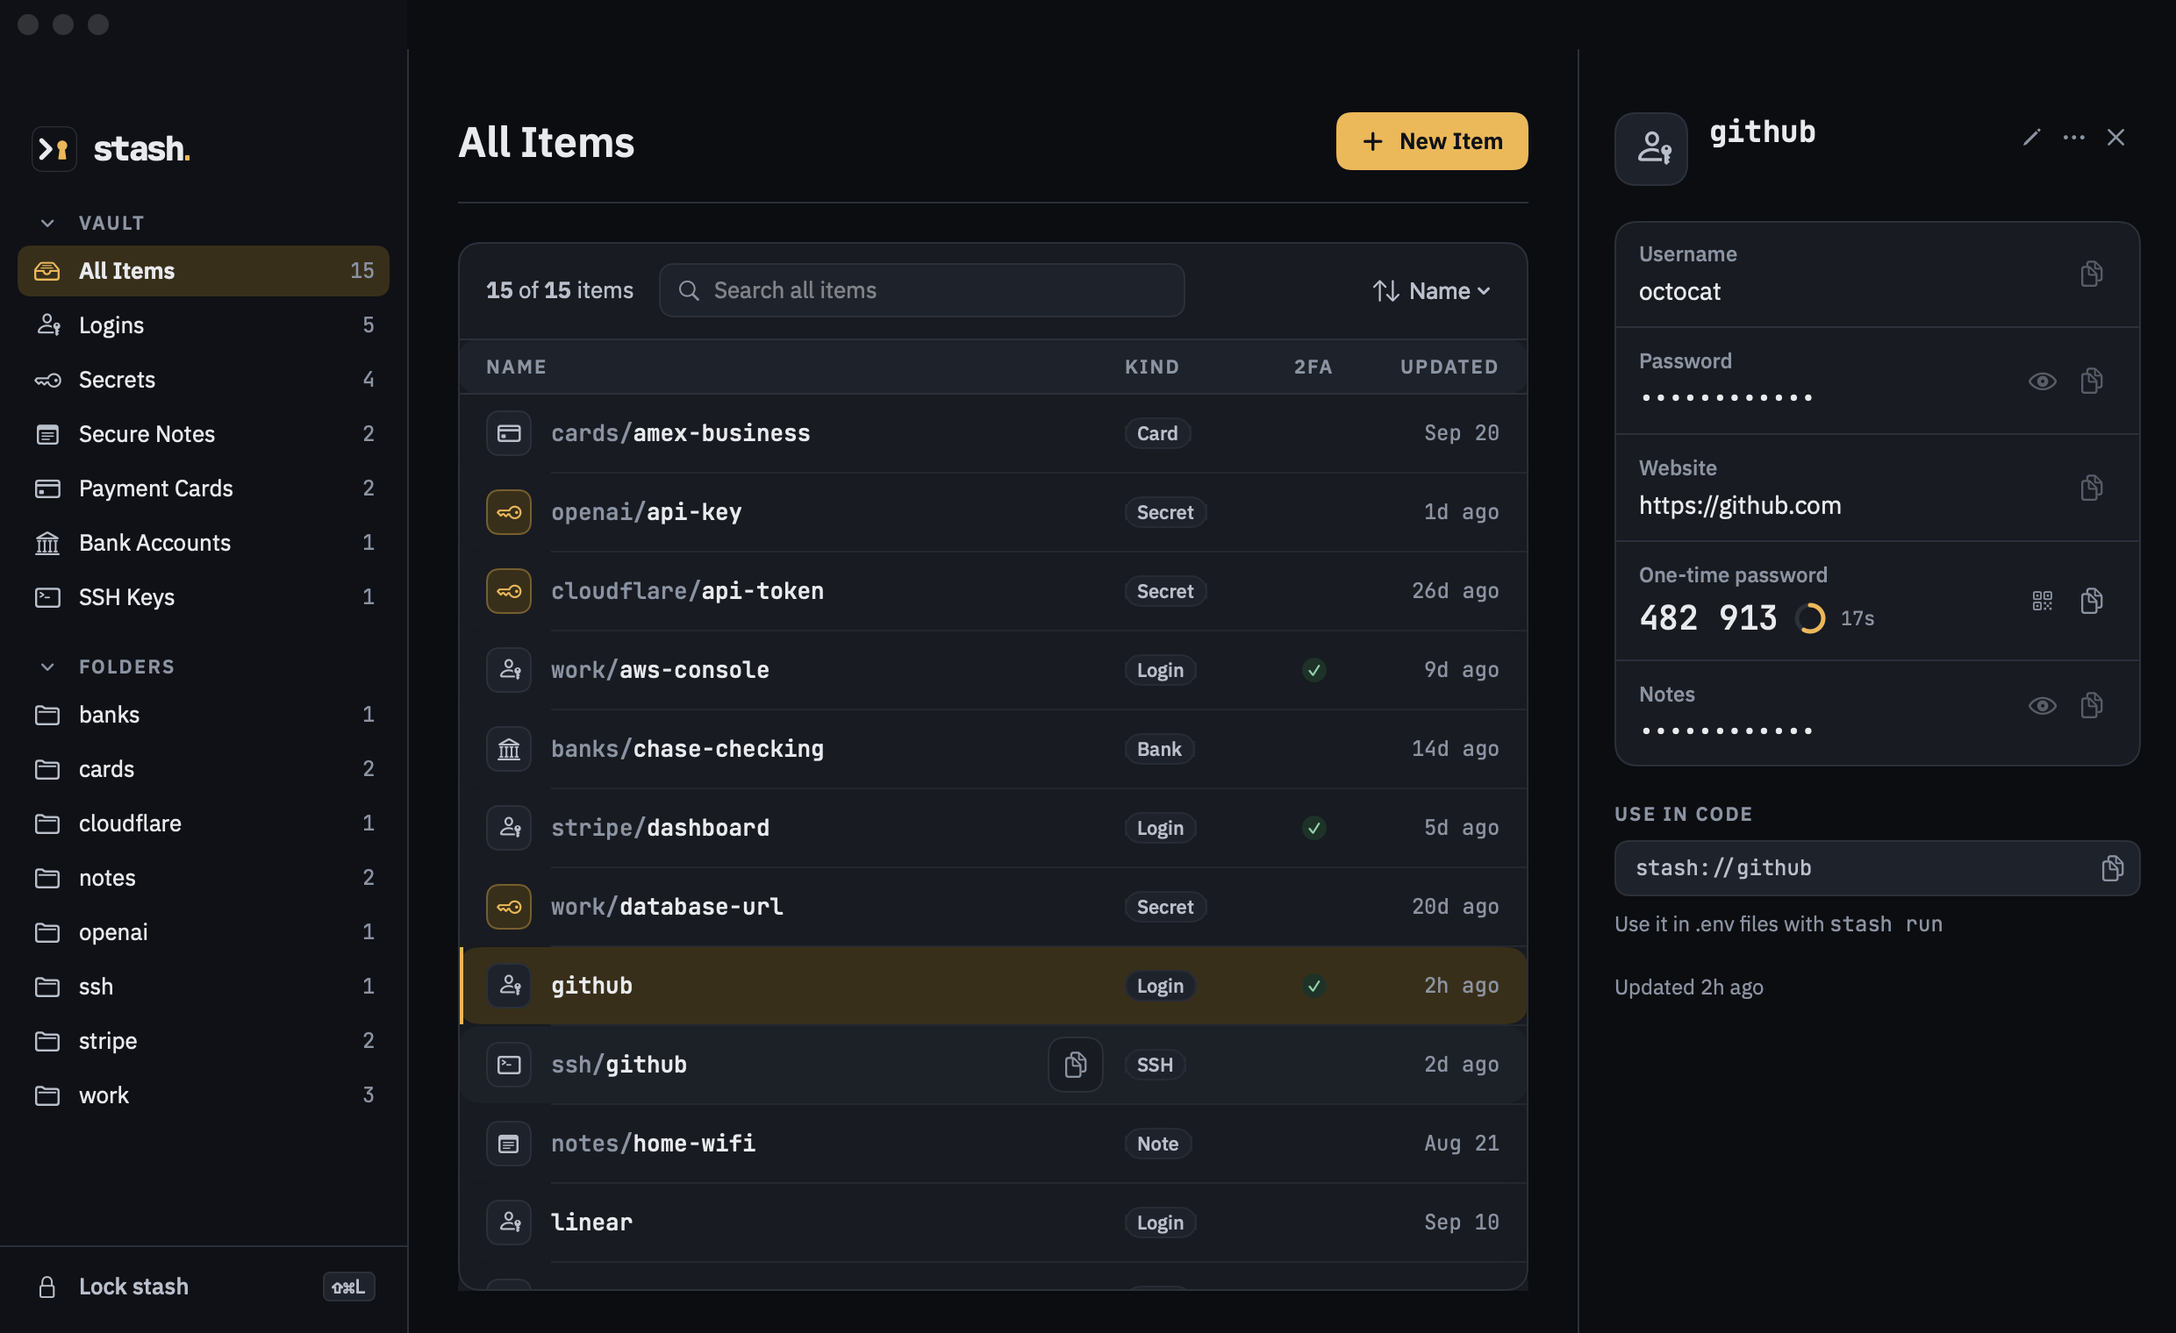
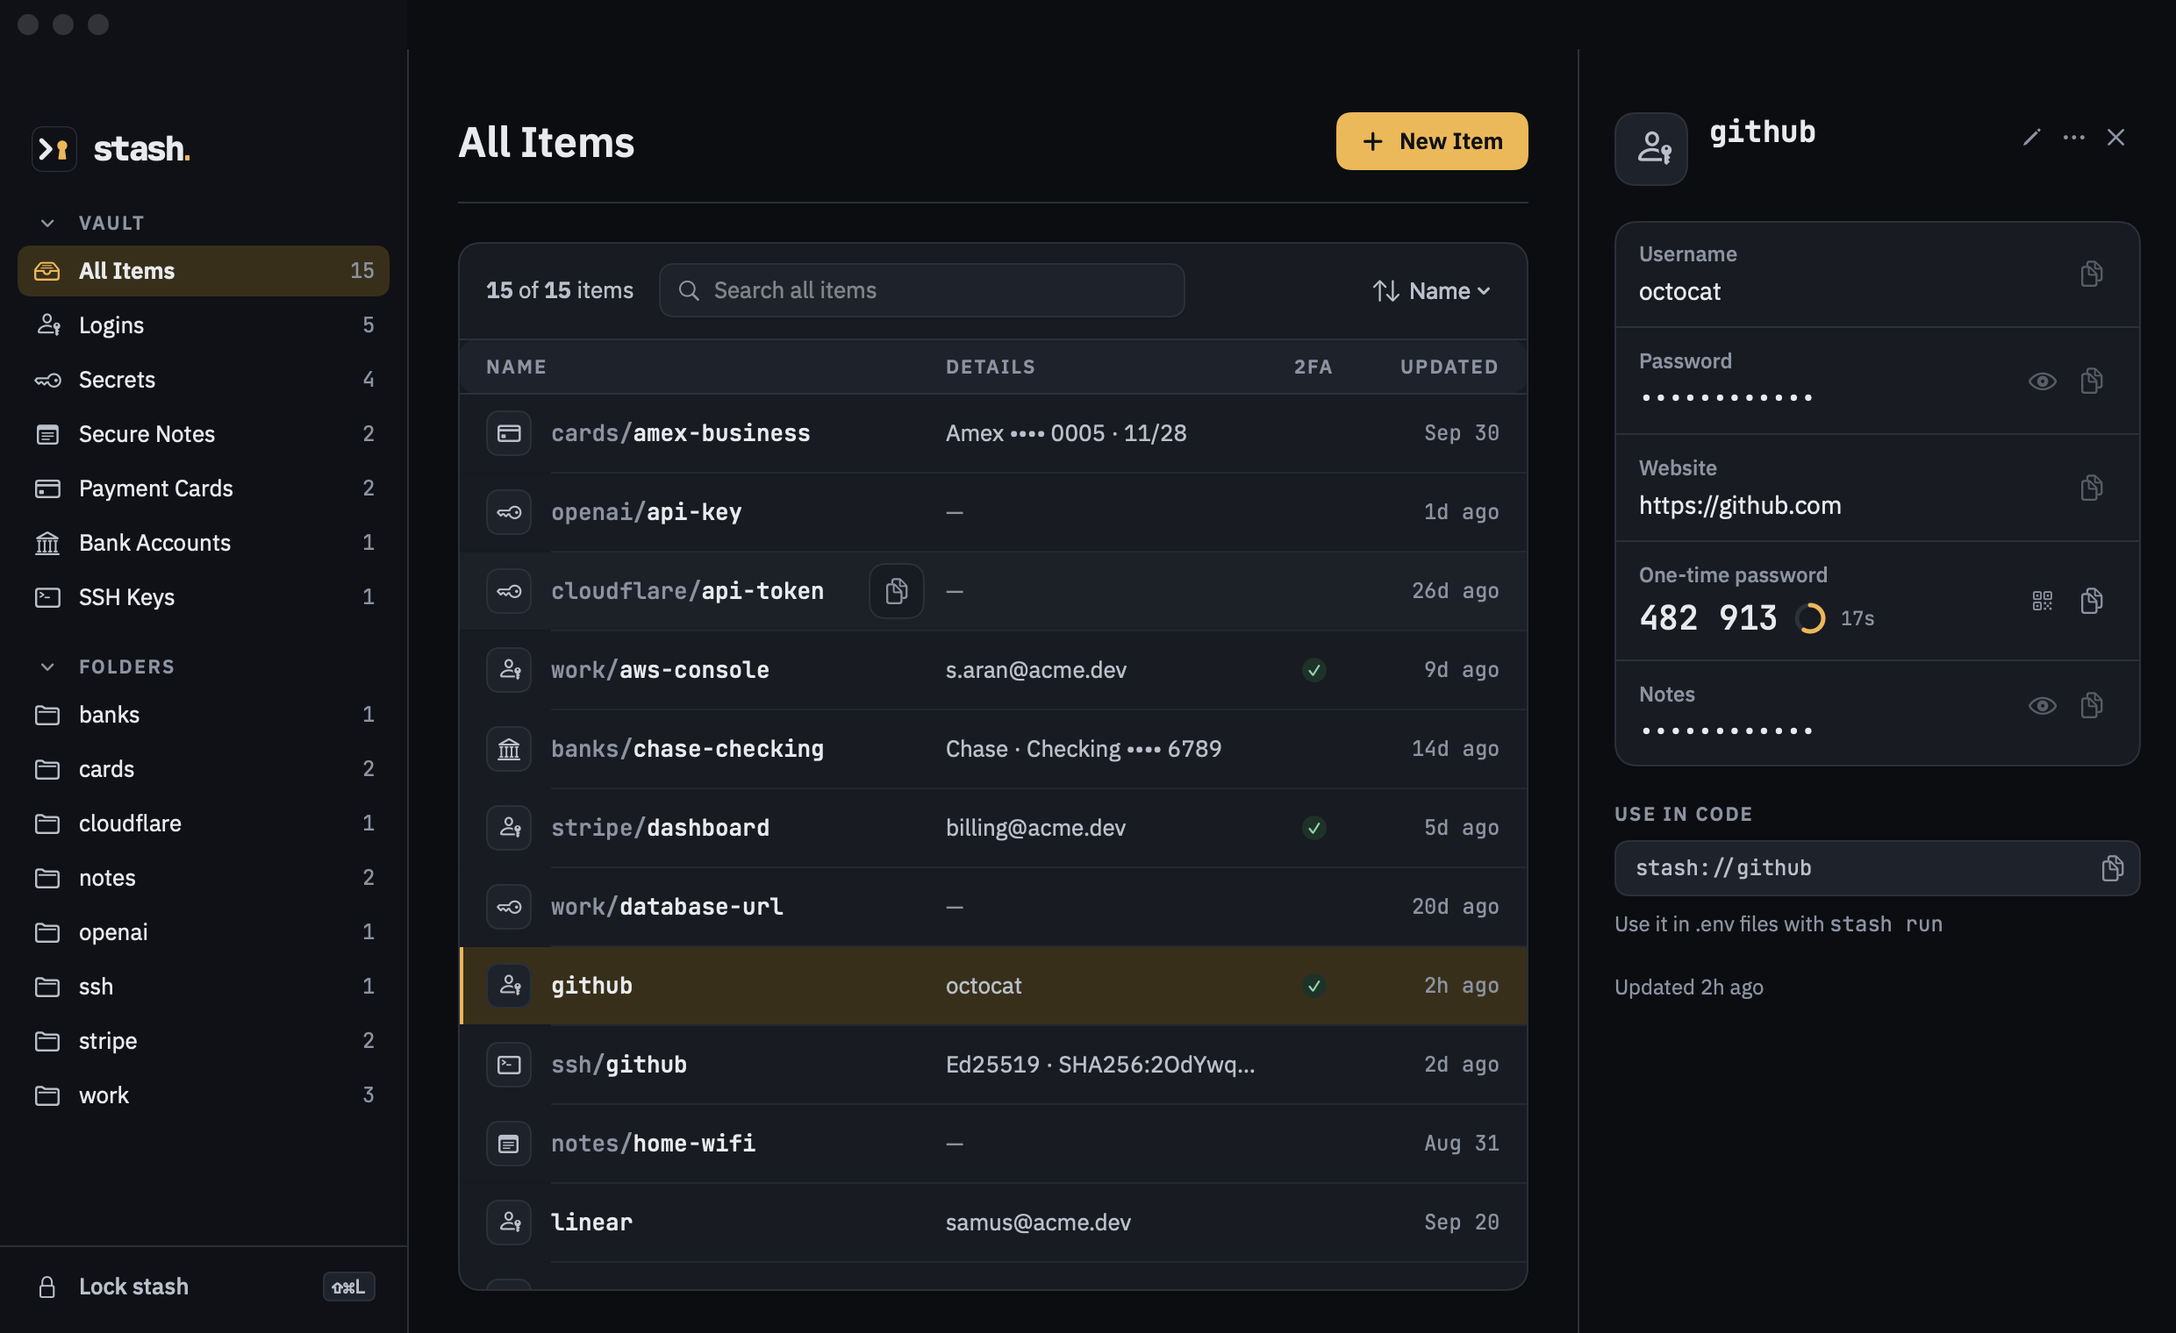
Tighten the design: useful list details, disciplined amber, real wordmark
- Mac list: a Details column (username, or the card or account summary) replaces Kind and stays with the detail panel open; the icon shows the kind
- Amber only for the primary action, selection, and keyhole, per the brand guide: one icon tile for every kind on the Mac, neutral icons on the iPhone
- Muted text in light mode (#5F6877) passes 4.5:1 on every background, in the Mac and iPhone apps and the browser extension
- iPhone: the real wordmark on the welcome, lock, and list screens; item names in JetBrains Mono
- Mac list rows no longer have notched corners, and the last row follows the card's corners
- Remove the unused Badge and KindBadge; model checks for which columns stay; refresh screenshots

diff --git a/macos/StashApp/Sources/Stash/VaultView.swift b/macos/StashApp/Sources/Stash/VaultView.swift
@@ -293,27 +293,24 @@ struct ItemsPane: View {
 
 /// Column widths, shared by the header and the rows.
 private enum Col {
-    static let kind: CGFloat = 78
     static let user: CGFloat = 180
     static let site: CGFloat = 170
     static let otp: CGFloat = 36
     static let updated: CGFloat = 76
 }
 
-/// Which optional columns fit, keeping at least 260pt for the name. As the
-/// table narrows (e.g. with the inspector open) it drops website first, then
-/// kind (the icon already shows it), then username, then updated.
+/// Which optional columns fit, keeping about 240pt for the name. As the table
+/// narrows (e.g. with the inspector open) it drops website first, then the
+/// date, and keeps the details longest: they say which account or card it is.
 struct Columns: Equatable {
-    var kind = true
-    var user = true
+    var details = true
     var site = true
     var updated = true
 
     init(width: CGFloat) {
-        site = width >= 890
-        user = width >= 620
-        kind = width >= 710 || width < 620
-        updated = width >= 520
+        site = width >= 782
+        updated = width >= 600
+        details = width >= 512
     }
 }
 
@@ -325,8 +322,7 @@ struct ItemTable: View {
         VStack(spacing: 0) {
             HStack(spacing: 12) {
                 Eyebrow(text: "Name").frame(maxWidth: .infinity, alignment: .leading)
-                if columns.kind { Eyebrow(text: "Kind").frame(width: Col.kind, alignment: .leading) }
-                if columns.user { Eyebrow(text: "Username").frame(width: Col.user, alignment: .leading) }
+                if columns.details { Eyebrow(text: "Details").frame(width: Col.user, alignment: .leading) }
                 if columns.site { Eyebrow(text: "Website").frame(width: Col.site, alignment: .leading) }
                 Eyebrow(text: "2FA").frame(width: Col.otp, alignment: .center)
                 if columns.updated { Eyebrow(text: "Updated").frame(width: Col.updated, alignment: .trailing) }
@@ -358,6 +354,8 @@ struct ItemTable: View {
                 }
             }
         }
+        // The last row follows the card's corners.
+        .clipShape(UnevenRoundedRectangle(bottomLeadingRadius: 12, bottomTrailingRadius: 12, style: .continuous))
     }
 }
 
@@ -385,14 +383,14 @@ struct ItemTableRow: View {
                 if hovering && item.kind != .note { RowActions(item: item) }
             }
 
-            if columns.kind { KindBadge(kind: item.kind).frame(width: Col.kind, alignment: .leading) }
-            if columns.user {
+            if columns.details {
                 // Cards and bank accounts show "Visa •••• 4242" here.
-                Text(item.username ?? item.subtitle ?? "—")
+                // Short enough that the last four digits always show.
+                Text((item.username ?? item.subtitle ?? "—").replacingOccurrences(of: "American Express", with: "Amex"))
                     .font(.plex(13))
                     .foregroundStyle(item.username == nil && item.subtitle == nil ? Color.inkTertiary : Color.inkSecondary)
                     .lineLimit(1)
-                    .truncationMode(.middle)
+                    .truncationMode(.tail)
                     .frame(width: Col.user, alignment: .leading)
             }
             if columns.site {
@@ -425,7 +423,9 @@ struct ItemTableRow: View {
         }
         .padding(.horizontal, 16)
         .frame(height: 44)
-        .background(selected ? Color.amberTint : (hovering ? Color.hover : Color.surface))
+        // An explicit rectangle: a bare Color here picks up rounded corners
+        // on recent macOS, which notch the row's edges.
+        .background(Rectangle().fill(selected ? Color.amberTint : (hovering ? Color.hover : Color.surface)))
         .overlay(alignment: .leading) {
             if selected { Rectangle().fill(Color.keyholeAmber).frame(width: 3) }
         }
@@ -476,38 +476,23 @@ struct RowActions: View {
     }
 }
 
-struct KindBadge: View {
-    let kind: ItemKind
-
-    var body: some View {
-        switch kind {
-        case .login: Badge(text: "Login")
-        // Neutral: the amber tile already marks a secret.
-        case .secret: Badge(text: "Secret")
-        case .note: Badge(text: "Note")
-        case .card: Badge(text: "Card")
-        case .bank: Badge(text: "Bank")
-        case .ssh: Badge(text: "SSH")
-        }
-    }
-}
-
 struct ItemIcon: View {
     let kind: ItemKind
     var size: CGFloat = 32
 
     var body: some View {
-        // The kind shows in the glyph, not in a heavy tile.
+        // The same tile for every kind: amber is for the action and the
+        // selection, and a card is no less secret than an API key.
         RoundedRectangle(cornerRadius: size * 0.27, style: .continuous)
-            .fill(kind == .secret ? Color.amberTint : Color.surfaceRaised)
-            .overlay(
-                RoundedRectangle(cornerRadius: size * 0.27, style: .continuous)
-                    .strokeBorder(kind == .secret ? Color.keyholeAmber.opacity(0.35) : Color.line))
+            .fill(Color.surfaceRaised)
+            .overlay(RoundedRectangle(cornerRadius: size * 0.27, style: .continuous).strokeBorder(Color.line))
             .overlay(
                 Image(systemName: kind.symbol)
                     .font(.system(size: size * 0.44, weight: .semibold))
-                    .foregroundStyle(kind == .secret ? Color.amberText : Color.inkSecondary))
+                    .foregroundStyle(Color.inkSecondary))
             .frame(width: size, height: size)
+            .help(kind.title)
+            .accessibilityLabel(kind.title)
     }
 }
 

diff --git a/ios/Stash/Views.swift b/ios/Stash/Views.swift
@@ -43,9 +43,7 @@ struct WelcomeView: View {
             VStack(alignment: .leading, spacing: 22) {
                 VStack(alignment: .leading, spacing: 10) {
                     StashMark(size: 64)
-                    Text("stash")
-                        .font(.plex(34, weight: .bold))
-                        .foregroundStyle(Color.ink)
+                    Wordmark(size: 34)
                     Text("Your cards and bank accounts, from your Mac, with Face ID.")
                         .font(.plex(17))
                         .foregroundStyle(Color.inkSecondary)
@@ -69,6 +67,7 @@ struct WelcomeView: View {
                         .padding(.vertical, 6)
                 }
                 .buttonStyle(.borderedProminent)
+                .tint(.keyholeAmber)
                 .foregroundStyle(Color.vaultInk)
 
                 if let error = model.error {
@@ -88,9 +87,10 @@ struct WelcomeView: View {
         HStack(alignment: .top, spacing: 12) {
             Text("\(n)")
                 .font(.mono(13, weight: .semibold))
-                .foregroundStyle(Color.vaultInk)
+                .foregroundStyle(Color.ink)
                 .frame(width: 24, height: 24)
-                .background(Color.keyholeAmber, in: Circle())
+                .background(Color.surfaceRaised, in: Circle())
+                .overlay(Circle().strokeBorder(Color.line))
             VStack(alignment: .leading, spacing: 6) {
                 Text(text).font(.plex(15)).foregroundStyle(Color.ink)
                 if let code {
@@ -116,7 +116,7 @@ struct LockView: View {
             Spacer()
             StashMark(size: 76)
             VStack(spacing: 6) {
-                Text("stash").font(.plex(30, weight: .bold)).foregroundStyle(Color.ink)
+                Wordmark(size: 30)
                 Text("Your cards, one glance away.").font(.plex(15)).foregroundStyle(Color.inkSecondary)
             }
             if model.faceIDEnrolled {
@@ -129,18 +129,22 @@ struct LockView: View {
                         .padding(.vertical, 6)
                 }
                 .buttonStyle(.borderedProminent)
+                .tint(.keyholeAmber)
                 .foregroundStyle(Color.vaultInk)
             }
             HStack {
                 SecureField("Vault password", text: $password)
                     .textContentType(.password)
                     .focused($focused)
+                    .tint(.keyholeAmber) // the cursor
                     .submitLabel(.go)
                     .onSubmit(submit)
                     .font(.plex(16))
                 Button(action: submit) {
                     Image(systemName: "arrow.right.circle.fill").font(.system(size: 26))
                 }
+                // Amber only when it's the main way in.
+                .tint(model.faceIDEnrolled ? .inkSecondary : .keyholeAmber)
                 .disabled(password.isEmpty || model.busy)
             }
             .padding(.horizontal, 14).padding(.vertical, 10)
@@ -202,6 +206,7 @@ struct VaultListView: View {
             .scrollContentBackground(.hidden)
             .background(Color.canvas)
             .navigationTitle("stash")
+            .navigationBarTitleDisplayMode(.inline)
             .navigationDestination(for: PhoneItem.self) { DetailView(item: $0) }
             #if DEBUG
             .onAppear {
@@ -213,6 +218,7 @@ struct VaultListView: View {
             }
             #endif
             .toolbar {
+                ToolbarItem(placement: .principal) { Wordmark(size: 19) }
                 ToolbarItem(placement: .topBarLeading) {
                     Menu {
                         if FaceIDKeys.available {
@@ -302,6 +308,11 @@ struct DetailView: View {
         .background(Color.canvas)
         .navigationTitle(item.title)
         .navigationBarTitleDisplayMode(.inline)
+        .toolbar {
+            ToolbarItem(placement: .principal) {
+                Text(item.title).font(.mono(15, weight: .semibold)).foregroundStyle(Color.ink)
+            }
+        }
         .onAppear { detail = model.detail(item.name) }
         .onDisappear { shown = [:] }
     }

diff --git a/ios/Stash/Theme.swift b/ios/Stash/Theme.swift
@@ -39,7 +39,7 @@ extension Color {
     static let line = Color(light: 0xE4E0D6, dark: 0x2A303B)
     static let ink = Color(light: 0x0E1116, dark: 0xE8EAED)
     static let inkSecondary = Color(light: 0x4A5160, dark: 0xB9C0CC)
-    static let inkTertiary = Color(light: 0x7D8594, dark: 0x8A93A3)
+    static let inkTertiary = Color(light: 0x5F6877, dark: 0x8A93A3)
     static let amberTint = Color(light: 0xFCEFD4, dark: 0x3A2F17)
     static let amberText = Color(light: 0x8A5A00, dark: 0xF5B544)
     static let danger = Color(light: 0xC2410C, dark: 0xFF8A65)
@@ -58,6 +58,24 @@ extension Font {
         UIFont(name: "JetBrains Mono", size: size) != nil
             ? .custom("JetBrains Mono", size: size).weight(weight)
             : .system(size: size, weight: weight, design: .monospaced)
+    }
+}
+
+/// The wordmark (docs/brand): lowercase JetBrains Mono ExtraBold with tight
+/// tracking, and the amber dot.
+struct Wordmark: View {
+    var size: CGFloat = 30
+
+    var body: some View {
+        // A monospaced "." sits mid-cell: pull it in to the "h", as in the logo.
+        // One Text, so its width is measured correctly.
+        (Text("stas").foregroundStyle(Color.ink).tracking(-size * 0.05)
+            + Text("h").foregroundStyle(Color.ink).tracking(-size * 0.25)
+            + Text(".").foregroundStyle(Color.keyholeAmber))
+            .font(.mono(size, weight: .heavy))
+            .lineLimit(1)
+            .fixedSize()
+            .accessibilityLabel("stash")
     }
 }
 

diff --git a/macos/StashApp/Sources/Stash/Theme.swift b/macos/StashApp/Sources/Stash/Theme.swift
@@ -37,7 +37,7 @@ extension Color {
     static let line = Color(light: 0xE4E0D6, dark: 0x2A303B)
     static let ink = Color(light: 0x0E1116, dark: 0xE8EAED)
     static let inkSecondary = Color(light: 0x4A5160, dark: 0xB9C0CC)
-    static let inkTertiary = Color(light: 0x7D8594, dark: 0x8A93A3)
+    static let inkTertiary = Color(light: 0x5F6877, dark: 0x8A93A3)
     static let amberTint = Color(light: 0xFCEFD4, dark: 0x3A2F17)
     static let amberText = Color(light: 0x8A5A00, dark: 0xF5B544)
     static let success = Color(light: 0x1F8A5B, dark: 0x7DD3A8)
@@ -302,23 +302,6 @@ struct SearchField: View {
         .overlay(
             RoundedRectangle(cornerRadius: 8, style: .continuous)
                 .strokeBorder(focused ? Color.keyholeAmber.opacity(0.7) : Color.line, lineWidth: focused ? 1.5 : 1))
-    }
-}
-
-/// A rounded tag ("Login", "2FA").
-struct Badge: View {
-    let text: String
-    var tint: Color = .surfaceRaised
-    var foreground: Color = .inkSecondary
-
-    var body: some View {
-        Text(text)
-            .font(.plex(11, weight: .medium))
-            .padding(.horizontal, 7)
-            .padding(.vertical, 2)
-            .foregroundStyle(foreground)
-            .background(tint, in: Capsule())
-            .overlay(Capsule().strokeBorder(Color.line.opacity(0.7)))
     }
 }
 

diff --git a/macos/StashApp/Sources/Stash/StashApp.swift b/macos/StashApp/Sources/Stash/StashApp.swift
@@ -254,6 +254,13 @@ final class AppDelegate: NSObject, NSApplicationDelegate {
         _ = await m.addSSHKey(name: "ssh/new") { try await $0.sshGenerate(name: "ssh/new", comment: nil) }
         check(m.filter == .kind(.ssh), "an SSH key made in Logins goes to SSH Keys")
 
+        // With the inspector open at the default window size, the table is
+        // 608pt wide: it must still say which account or card each row is.
+        let inspectorOpen = Columns(width: 608)
+        check(inspectorOpen.details && inspectorOpen.updated && !inspectorOpen.site, "the list keeps its details with the inspector open")
+        check(!Columns(width: 442).details, "the narrowest list keeps room for the name")
+        check(Columns(width: 900).site, "a wide list shows every column")
+
         m = await fresh(.kind(.ssh), search: "zzz")
         let sample = try? await MockBackend(locked: false).importPreview(path: "/sample.csv")
         let picked = (sample?.entries ?? []).filter { [0, 2].contains($0.index) }

diff --git a/ios/Stash/StashPhoneApp.swift b/ios/Stash/StashPhoneApp.swift
@@ -22,7 +22,8 @@ struct StashPhoneApp: App {
                     default: break
                     }
                 }
-                .tint(.keyholeAmber)
+                // Neutral: amber is for primary actions, set where they are.
+                .tint(.inkSecondary)
         }
     }
 }

diff --git a/browser/extension/popup.css b/browser/extension/popup.css
@@ -7,7 +7,7 @@
   --canvas: #F6F4EF;
   --surface: #FFFFFF;
   --text: #15181E;
-  --muted: #6B7280;
+  --muted: #5F6877;
   --line: #E4E1D8;
   --hover: #F1EEE6;
   --amber-tint: #FCEFD4;

diff --git a/docs/CHANGELOG.md b/docs/CHANGELOG.md
@@ -9,6 +9,15 @@ All notable changes to stash. The format follows [Keep a Changelog](https://keep
 - **`stash export --phone FILE.stashvault`** writes a separate encrypted vault with only your cards and bank accounts, under a password you choose for the phone (Touch ID or the master password first). Open it on the iPhone through AirDrop, the Files app, or Finder.
 - **`crates/stash-ffi`**, a small C interface to the vault, so the iPhone app uses the same Rust code and vault format as the Mac. `scripts/ios-build.sh` builds the app for the simulator, `scripts/ios-install.sh` installs it on your iPhone with your own Apple ID, and CI builds it.
 
+### Changed
+- **The Mac list shows which account or card each row is.** A Details column (username, or `Visa •••• 4242`) replaces the Kind column, and stays visible with the detail panel open; the icon already shows the kind.
+- **Amber is reserved for what matters,** as the brand guide says: the primary action, the selection, the keyhole. API keys no longer get amber tiles, and the iPhone's icons are neutral.
+- **Muted text in light mode is darker,** and now passes 4.5:1 contrast on every background, in the Mac app, the iPhone app, and the browser extension.
+- The iPhone app uses the real wordmark.
+
+### Fixed
+- List rows in the Mac app no longer have notched corners on recent macOS.
+
 ## [0.18.0] - 2026-10-21
 
 ### Added
